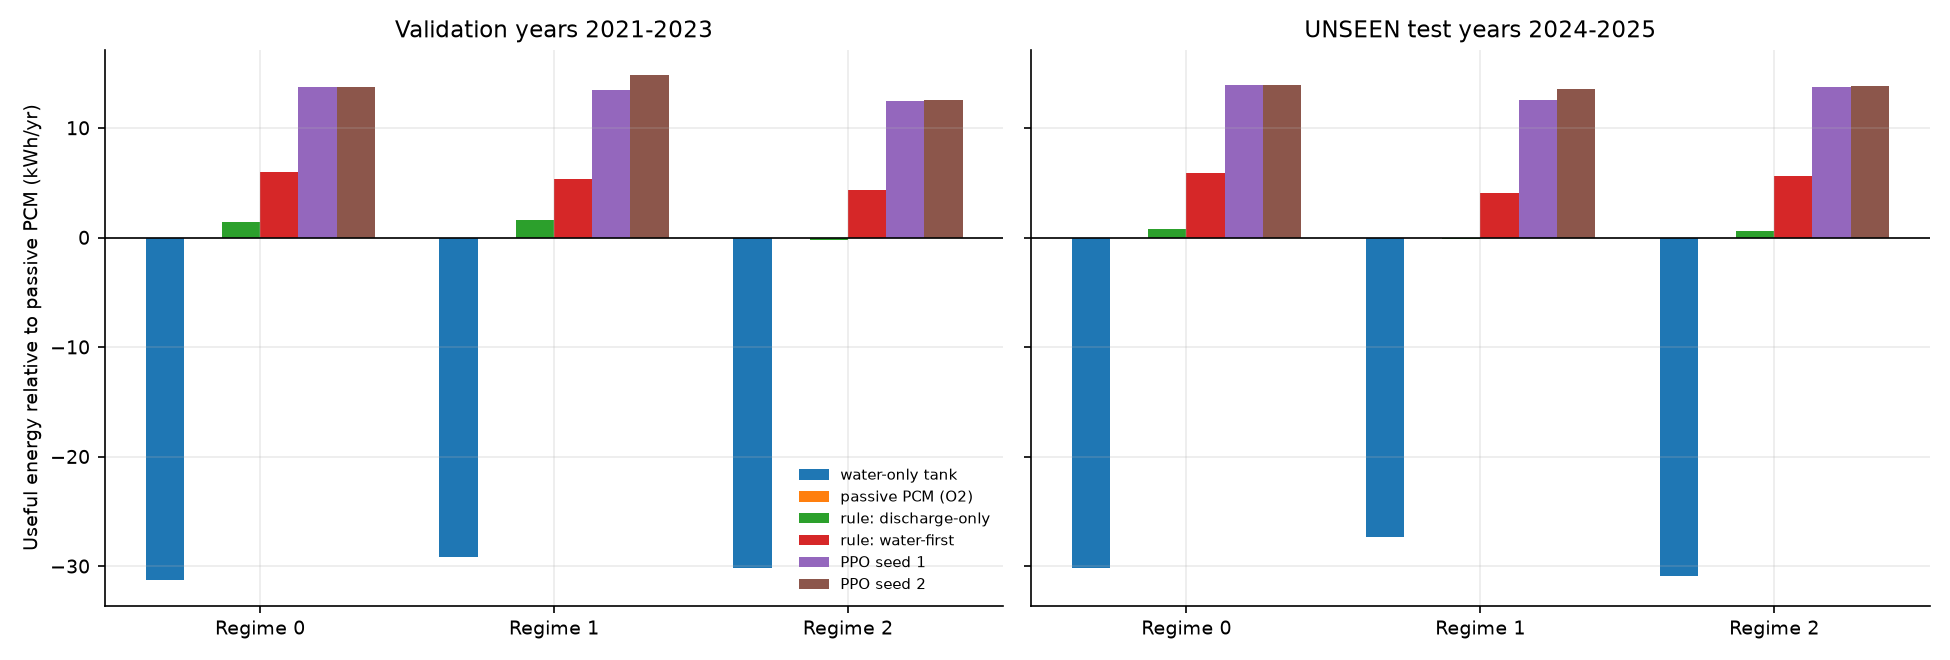
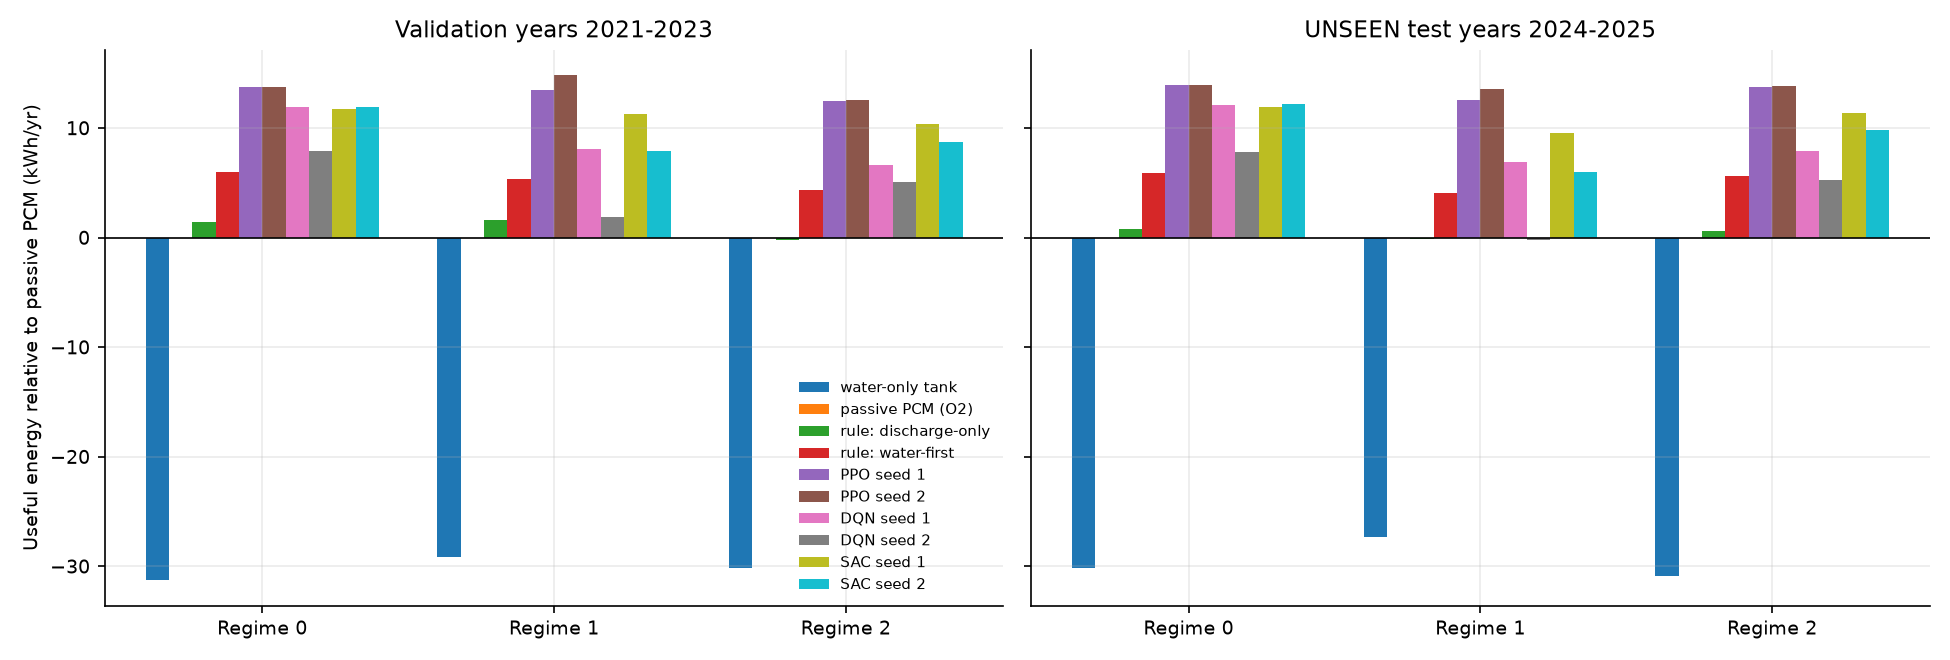
feat(objective3): add Assam DQN and SAC results
Adds DQN and SAC rows to the Assam table, fills the Assam cells of the
agents-compared table, updates stats/notes/finding/limitation text and adds
the all-agents trade-off and DQN/SAC training figures. Other states and
objectives are unchanged.

diff --git a/src/data/objective3Content.js b/src/data/objective3Content.js
@@ -69,10 +69,10 @@ export const O3_METHOD_STEPS = [
 export const O3_AGENT_TABLE = {
   columns: ["Agent", "Tamil Nadu", "Rajasthan", "Uttarakhand", "Assam"],
   rows: [
-    ["PPO", "Collapses to B0; not retrained after the weather fix", "Ends at B0 (3 seeds, regime 1)", "Frozen controller: about 99% fewer shield hours, 8–11% less delivery", "Selected in all 3 regimes (2 seeds each): +1.0% delivery over the passive PCM tank, −16 to −26% shield sub-steps, 0 violations (test 2024–2025)"],
-    ["DQN", "Regime 0 only: 96.2% of B0, −62% shields; about B0 in regimes 1–2", "One good seed in regime 1 (locked test 98.0%, −61%); a retrain returned B0", "Behaves like PPO", "Not trained"],
+    ["PPO", "Collapses to B0; not retrained after the weather fix", "Ends at B0 (3 seeds, regime 1)", "Frozen controller: about 99% fewer shield hours, 8–11% less delivery", "Trained (1.2 M steps, 2 seeds): +1.0–1.1% delivery over the passive PCM tank, −16 to −26% shield sub-steps, 0 violations; the most reproducible agent (test 2024–2025)"],
+    ["DQN", "Regime 0 only: 96.2% of B0, −62% shields; about B0 in regimes 1–2", "One good seed in regime 1 (locked test 98.0%, −61%); a retrain returned B0", "Behaves like PPO", "Trained (600 k steps, 2 seeds): +0.4–0.9% delivery, −34 to −58% shield sub-steps, 0 violations in the selected checkpoints; regime 1 seed 2 gains nothing"],
     ["RecurrentPPO, QRDQN, MaskablePPO", "Stuck at B0; not retrained after the weather fix", "Not trained", "Not trained", "Not trained"],
-    ["SAC", "Selected: 97–99% of B0, −33 to −54% shields in all three regimes", "Passes the annual rule with 70–96% fewer shield hours (validation only)", "Weakest: 84.8% of B0, about 925 switches a year", "Not trained"],
+    ["SAC", "Selected: 97–99% of B0, −33 to −54% shields in all three regimes", "Passes the annual rule with 70–96% fewer shield hours (validation only)", "Weakest: 84.8% of B0, about 925 switches a year", "Trained (250 k steps, 2 seeds): +0.5–0.9% delivery, −47 to −60% shield sub-steps, 0 violations; the largest shield cuts"],
   ],
 };
 
@@ -200,49 +200,55 @@ export const O3_STATES = [
   {
     id: "assam",
     name: "Assam",
-    selected: "PPO",
-    tag: "PPO selected (all 3 regimes) · test years 2024–2025",
+    selected: "PPO + SAC",
+    tag: "PPO (delivery) and SAC (shield) selected · test years 2024–2025",
     stats: [
-      { value: "+1.0%", label: "More delivered energy than the passive PCM tank (+12.6 to +14.0 kWh/yr, both seeds)" },
-      { value: "−16 to −26%", label: "Water-shield sub-steps vs B0 (regime 0: 4,877 vs 6,572)" },
-      { value: "0", label: "Safety-limit violations (max water 72.4 °C, PCM 62.3 °C)" },
-      { value: "2.5×", label: "The gain of the best hand-written rule (water-first, +4 to +6 kWh/yr)" },
+      { value: "+0.4 to +1.1%", label: "Delivered energy vs the passive PCM tank, all three agents (PPO the most: +12.6 to +13.9 kWh/yr)" },
+      { value: "−16 to −60%", label: "Water-shield sub-steps vs B0 (PPO −16 to −26%; DQN −34 to −58%; SAC −47 to −60%)" },
+      { value: "0", label: "Safety-limit violations for every selected controller" },
+      { value: "PPO", label: "Most delivery and the most reproducible (seeds within 1.4 kWh/yr); SAC and DQN cut shields most but vary more by seed" },
     ],
     columns: ["Delivered kWh/yr (useful energy)", "Water-shield sub-steps/yr"],
     rows: [
       { regime: "R0", policy: "Water-only tank", a: "1283.5", b: "4,182" },
       { regime: "R0", policy: "B0 passive PCM (always on)", a: "1313.6", b: "6,572" },
       { regime: "R0", policy: "Rule-based (water-first)", a: "1319.5 (+0.4%)", b: "5,054 (−23%)" },
-      { regime: "R0", policy: "PPO (selected)", a: "1327.6 (+1.1%)", b: "4,877 (−26%)", best: true },
+      { regime: "R0", policy: "PPO", a: "1327.6 (+1.1%)", b: "4,877 (−26%)", best: true },
+      { regime: "R0", policy: "DQN", a: "1325.7 (+0.9%)", b: "3,886 (−41%)" },
+      { regime: "R0", policy: "SAC", a: "1325.8 (+0.9%)", b: "3,455 (−47%)", best: true },
       { regime: "R1", policy: "Water-only tank", a: "1232.3", b: "4,132" },
       { regime: "R1", policy: "B0 passive PCM (always on)", a: "1259.7", b: "6,745" },
       { regime: "R1", policy: "Rule-based (water-first)", a: "1263.8 (+0.3%)", b: "5,622 (−17%)" },
-      { regime: "R1", policy: "PPO (selected)", a: "1272.2 (+1.0%)", b: "5,684 (−16%)", best: true },
+      { regime: "R1", policy: "PPO", a: "1272.2 (+1.0%)", b: "5,683 (−16%)", best: true },
+      { regime: "R1", policy: "DQN", a: "1266.6 (+0.5%)", b: "2,801 (−58%)" },
+      { regime: "R1", policy: "SAC", a: "1265.7 (+0.5%)", b: "3,026 (−55%)", best: true },
       { regime: "R2", policy: "Water-only tank", a: "1240.0", b: "4,396" },
       { regime: "R2", policy: "B0 passive PCM (always on)", a: "1270.9", b: "7,081" },
       { regime: "R2", policy: "Rule-based (water-first)", a: "1276.5 (+0.4%)", b: "5,645 (−20%)" },
-      { regime: "R2", policy: "PPO (selected)", a: "1284.6 (+1.1%)", b: "5,528 (−22%)", best: true },
+      { regime: "R2", policy: "PPO", a: "1284.6 (+1.1%)", b: "5,528 (−22%)", best: true },
+      { regime: "R2", policy: "DQN", a: "1276.1 (+0.4%)", b: "4,700 (−34%)" },
+      { regime: "R2", policy: "SAC", a: "1280.7 (+0.8%)", b: "2,863 (−60%)", best: true },
     ],
     figures: [
-      { file: "assam/o3_as_tradeoff.png", title: "Delivery vs shield trade-off (Assam)", caption: "Unseen test years 2024–2025: PPO sits above and to the left of the passive PCM tank in every regime, i.e. more delivery and less shield activity." },
-      { file: "assam/fig61_o3_as_controller_comparison.png", title: "Controller comparison (Assam)", caption: "Gain over the passive PCM tank for the water-only tank, two rule-based controllers and two PPO seeds, on validation and test years." },
-      { file: "assam/fig63_o3_as_policy_behaviour.png", title: "What the Assam policy does", caption: "PPO bypasses the PCM bed in the morning, connects it from late morning and changes flow in the evening." },
-      { file: "assam/fig60_o3_as_training_curves.png", title: "Training curves (Assam)", caption: "Validation improvement over the passive PCM tank during PPO training (2 seeds per regime)." },
+      { file: "assam/o3_as_agents_tradeoff.png", title: "Delivery vs shield activity, all agents (Assam)", caption: "Unseen test years 2024–2025: every agent sits above the passive PCM tank (more delivery) and to its left (fewer shield sub-steps). PPO is highest; SAC and DQN are furthest left." },
+      { file: "assam/fig61_o3_as_controller_comparison.png", title: "Controller comparison (Assam)", caption: "Gain over the passive PCM tank for the water-only tank, the rule-based controllers and every trained agent and seed, on validation and test years." },
+      { file: "assam/fig63_o3_as_policy_behaviour.png", title: "What the Assam PPO policy does", caption: "PPO bypasses the PCM bed in the morning, connects it from late morning and changes flow in the evening." },
+      { file: "assam/o3_as_dqn_sac_training.png", title: "DQN and SAC training curves (Assam)", caption: "Validation improvement over the passive tank. Red crosses mark checkpoints that broke a limit and were rejected (several late DQN checkpoints)." },
     ],
     notes: [
-      "Setup differs from the other states: the controlled design is Objective 2's selected savE OM46 PCM tank (single-layer in regimes 0 and 1, radial in regime 2) and the agent chooses, every hour, whether the collector pump may run and the PCM-loop flow (bypass, 0.010, nominal or 0.050 kg/s), 8 discrete actions. The shield (72 °C water, 62 °C PCM charge block) stays inside the physics and cannot be overridden.",
-      "Reward: the hourly improvement in unmet delivery energy against a shadow passive-PCM tank run in lock-step (a paired reward), minus 0.02 per shield hour and 5 per violation. The weights were chosen by us and are not tuned per state.",
-      "Training: PPO (Stable-Baselines3, 128×128), 1.2 M steps, 2 seeds per regime, on 2016–2020; best checkpoint chosen on 2021–2023; final test on 2024–2025, which were never used to train or select. Objective 2's held-out years 2011–2015 were not used. The Assam test years differ from the other states' (2011–2015 / 2006–2010).",
-      "Unlike the other states, delivery goes up and shield activity goes down together: the agent keeps the PCM bed bypassed in the morning so the water reaches temperature first, then connects the bed from about 11:00–14:00 to absorb surplus before the shield threshold. The best hand-written rule gets a fifth of the delivery gain.",
-      "Both seeds agree within 1 kWh/yr in every regime; zero violations in all 12 validation and test rollouts.",
-      "Pump-off actions at night change nothing (the collector has no gain then); they are not learned behaviour.",
+      "Setup differs from the other states: the controlled design is Objective 2's selected savE OM46 PCM tank (single-layer in regimes 0 and 1, radial in regime 2) and the agent chooses, every hour, whether the collector pump may run and the PCM-loop flow (bypass, 0.010, nominal or 0.050 kg/s). PPO chooses the pair as two discrete outputs; DQN a single 8-way action; SAC two continuous outputs mapped to the same pair. The shield (72 °C water, 62 °C PCM charge block) stays inside the physics and cannot be overridden.",
+      "Reward: the hourly improvement in unmet delivery energy against a shadow passive-PCM tank run in lock-step (a paired reward), minus 0.02 per shield hour and 5 per violation; weights chosen by us, the same for all agents.",
+      "Training: PPO 1.2 M steps, DQN 600 k, SAC 250 k, 2 seeds each per regime, on 2016–2020; the best checkpoint with zero violations is chosen on 2021–2023 and the seed with the best validation score is reported; final test on 2024–2025, never used to train or select. Objective 2's held-out years 2011–2015 were not used. Assam's test years differ from the other states'.",
+      "Unlike the other states, delivery goes up and shield activity goes down together for every agent. PPO takes the most delivery (+1.0 to +1.1%); SAC and DQN give up 2–8 kWh/yr of that for much larger shield reductions (34–60% against 16–26%), the same delivery-versus-shield trade-off the other states report.",
+      "Seed spread: PPO's two seeds agree within 1.4 kWh/yr in every regime. DQN regime 1: seed 1 +6.9 and seed 2 −0.2 kWh/yr. SAC regime 1: +9.6 and +6.0. Several late DQN checkpoints broke the hard limits (120–1,522 violating sub-steps) and were rejected; the selected ones did not. DQN lets the PCM reach 63.4–64.6 °C in regimes 0–1, above the 62 °C shield threshold but below the 65 °C limit.",
+      "Choice of agent depends on how much shield wear matters, which the simulator does not price: PPO if delivery matters most, SAC if shield activity does.",
       "Caveats: the effect is small (about 1%) because the 50 L / 1.5 m² system against 300 L/day is collector-limited (solar fraction about 0.36); training and test use the same simulator; the controller sees a perfect 3-hour irradiance forecast; shield activity is counted in solver sub-steps (as in Tamil Nadu), not hours. No shield-weight sweep or forecast ablation was run for Assam.",
     ],
   },
 ];
 
 export const O3_FINDINGS = [
-  { title: "Assam: a controller can help on both axes", text: "Because Assam's Objective 2 tank has some PCM headroom, PPO delivers about 1% more energy than the passive PCM tank and also cuts water-shield activity by 16–26%, on years it never saw. The gain is small, repeatable across two seeds, and about 2.5 times the best rule-based controller." },
+  { title: "Assam: a controller can help on both axes", text: "Because Assam's Objective 2 tank has some PCM headroom, all three agents deliver 0.4–1.1% more energy than the passive PCM tank and cut water-shield activity by 16–60%, on years they never saw. PPO takes the most delivery and is the most reproducible; SAC and DQN cut shields furthest. The gains are small and the system is collector-limited." },
   { title: "Reward design decides the outcome", text: "With a delivery-only reward every agent learns always-charge, identical to B0. Only a shield penalty makes anticipation pay, and its weight sets where a policy lands on the delivery-versus-shield trade-off." },
   { title: "No controller beats always-on on delivery", text: "With Objective 2's shield inside the plant, no rule or learned policy delivers more energy than B0 in any state. Every policy that reduces shield activity pays some delivery." },
   { title: "Same delivery, far fewer shield activations", text: "Tamil Nadu SAC keeps 97–99% of B0 with 33–54% fewer activations; Rajasthan's locked-test DQN keeps 98% with 61% fewer shield hours; Rajasthan's SAC runs keep 95–96% with 71–96% fewer (validation only). Uttarakhand's PPO cuts about 99% but gives up 8–11% of delivery. All with zero violations." },
@@ -252,7 +258,7 @@ export const O3_FINDINGS = [
 ];
 
 export const O3_LIMITATIONS = [
-  "Assam: delivery and shield activity both improve, but only by about 1% and 16–26%, on a collector-limited system; trained and tested on the same simulator with a perfect 3-hour irradiance forecast, and no shield-weight or forecast ablation was run.",
+  "Assam: delivery and shield activity both improve, but delivery only by 0.4–1.1%, on a collector-limited system; trained and tested on the same simulator with a perfect 3-hour irradiance forecast, and no shield-weight or forecast ablation was run.",
   "Simulation only; PCM temperature, melt fraction and stored energy are simulator states that a real tank would need an estimator for.",
   "Train and validation years were used by Objective 2 to choose the design, so gains against B0 there are optimistic. The test is a hold-out by year at the same sites, not by location, and Tamil Nadu's test years 2011–2015 were also Objective 2's held-out years.",
   "Shield hours have no physical cost in the simulator; if shield operation causes real wear or pump cycling, that cost must be modelled. Rajasthan's SAC switches the loop about 3,000 times a year.",
